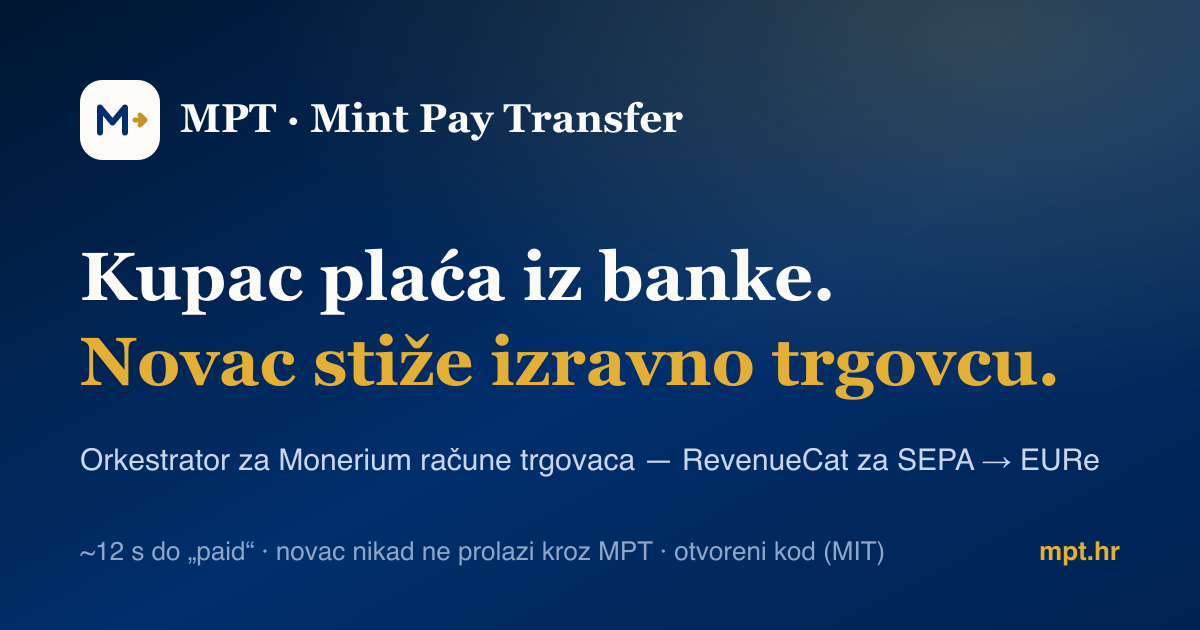
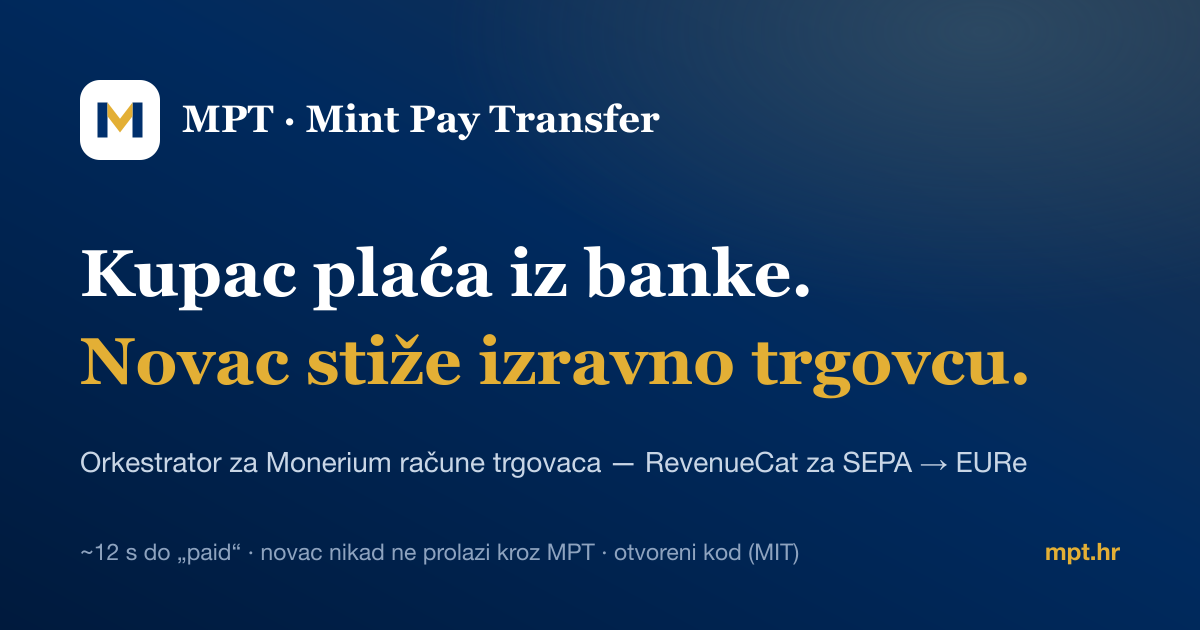
feat(brand): novi MPT znak — M sa zlatnim chevronom
Favicon, Logo() i OG slika sada nose isti znak kao mediakit
(mpt_logo_square.svg): bijeli krakovi M-a, srednji V je zlatni chevron
prema dolje. Prije su bile tri različite inačice „M + strelica”.
OG slika dobila je izvor u docs/brand/og.svg (bijela pločica jer je
pozadina tamnoplava). Deployano na mpt.hr.

diff --git a/src/components/site.tsx b/src/components/site.tsx
@@ -177,18 +177,13 @@ function Nav({ dict, locale, page }: { dict: Dictionary; locale: Locale; page: P
 	);
 }
 
+// Isti znak kao public/favicon.svg i mediakit mpt_logo_square.svg.
 export function Logo() {
 	return (
 		<svg width="30" height="30" viewBox="0 0 32 32" fill="none" aria-hidden>
-			<rect width="32" height="32" rx="9" fill="#002F6C" />
-			<path
-				d="M8 21V11l5 6 5-6v10"
-				stroke="#FFFFFF"
-				strokeWidth="2.4"
-				strokeLinecap="round"
-				strokeLinejoin="round"
-			/>
-			<path d="M22 16h4m0 0-2-2m2 2-2 2" stroke="#E3AF35" strokeWidth="2" strokeLinecap="round" strokeLinejoin="round" />
+			<rect width="32" height="32" rx="8" fill="#002F6C" />
+			<path d="M7 9h4v14H7zM21 9h4v14h-4z" fill="#FFFFFF" />
+			<path d="M11 9l5 6.5L21 9v5.5l-5 6.5-5-6.5z" fill="#E3AF35" />
 		</svg>
 	);
 }

diff --git a/CLAUDE.md b/CLAUDE.md
@@ -36,8 +36,9 @@ Zajednički dijelovi (nav, footer, CTA traka, `pageMetadata`, `localHref`) su u
 `src/components/site.tsx`; interni hrefovi u dictionaries su bez locale prefiksa
 (`/pricing`, `/#how`). Nova stranica = `pagePaths` + `dict.pages.<key>` + middleware
 matcher (preusmjerenje rute bez jezika). `sitemap.ts` i hreflang (s `x-default`) se
-izvode iz `pagePaths`; `robots.ts` upućuje na sitemap. OG slika je statični `public/og.png` (izvor: SVG renderiran
-`rsvg-convert`, 1200×630).
+izvode iz `pagePaths`; `robots.ts` upućuje na sitemap. OG slika je statični `public/og.png`, izvor je `docs/brand/og.svg`
+(`rsvg-convert -w 1200 -h 630 docs/brand/og.svg -o public/og.png`). Znak (M pločica) je isti u
+`public/favicon.svg`, `Logo()` u `site.tsx` i mediakitu (`mpt_logo_square.svg`); mijenjaj sva tri skupa.
 Iskreno o stanju: multi-tenant rail (ADR 0017) je u produkcijskom kodu ali isključen
 (`MULTI_TENANT_RAIL=0`) dok prvi vanjski tenant ne završi KYB — ITalk je jedini aktivni
 tenant. Sekcija `#status` (u produkciji / u pripremi / poznata ograničenja) mora se
